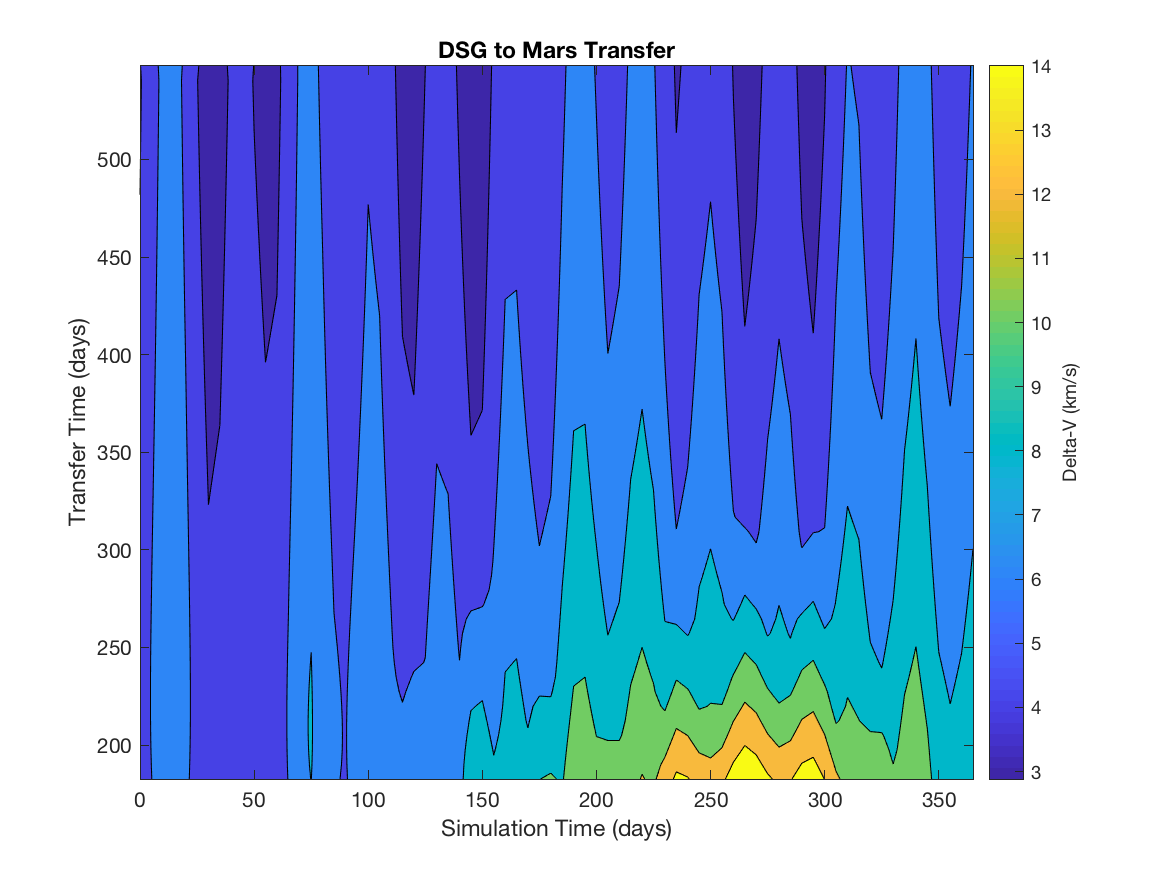
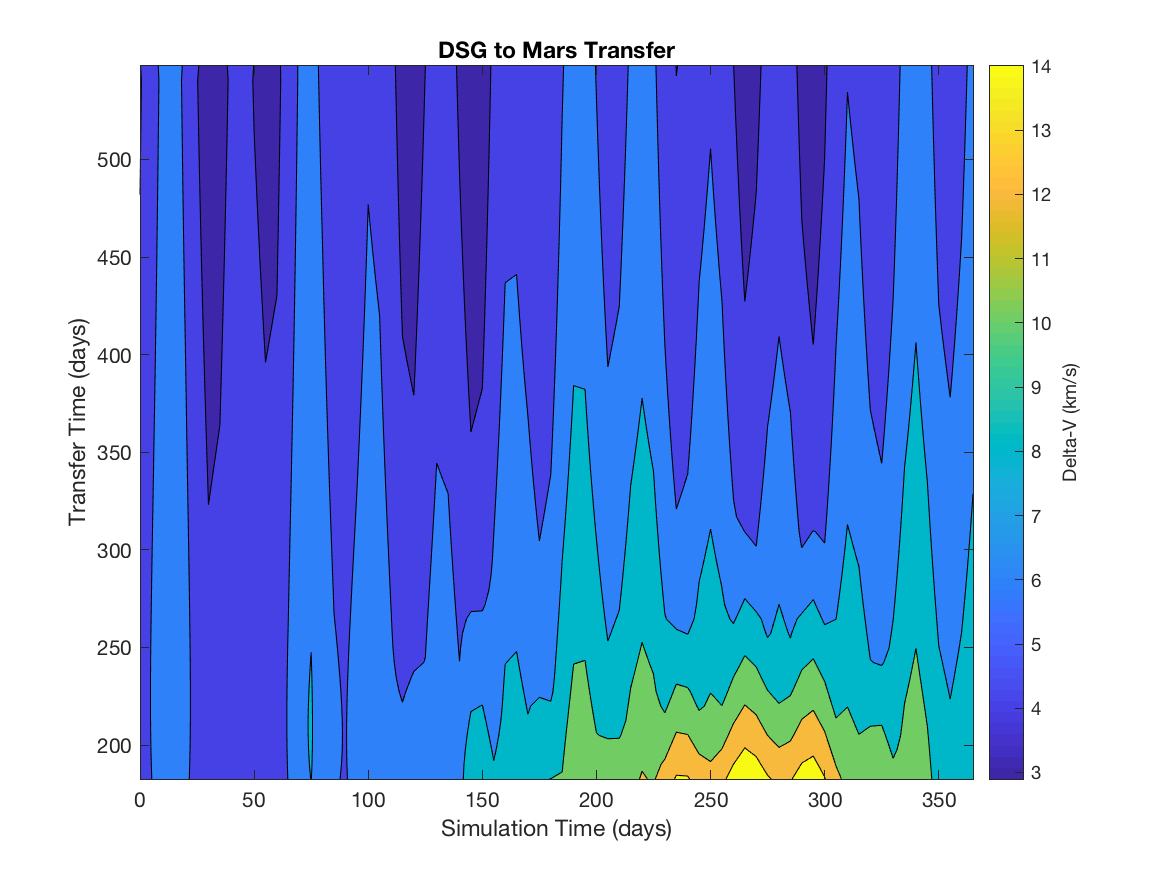
Added comments and more plots

diff --git a/sim_motion.m b/sim_motion.m
@@ -18,6 +18,7 @@ NM = 102.4e24;
 Sat_Mass = 0.5*419725; %kg, half mass of ISS
 PM = [Sat_Mass,SM,MerM,VM,EM,MM,MarM,JM,SatrM,UM,NM];
 
+%Constants
 EMR = 384399; %km
 ER = 6378; %km
 MR = 1738; %km
@@ -31,6 +32,7 @@ mu_s = G*SM;
 Re = 6378;
 sa_A = 625; %m2, area of solar array on DSG (1/4 ISS solar area area)
 
+% Delta-V Variable Initialization
 global maint grav_type dvTime ref_r ref_i dv_sum dvMag dvType dv_count last_burn avg_rs avg_is avg_es;
 global pdv_t pdv_m;
 maint = 1; %enable to maintain the equatorial circular orbit around the Moon
@@ -55,6 +57,7 @@ else
     mt = '';
 end
 
+%J2-J5 Coefficient Delcaration
 J2_E  = 0.10826360229840e-02;
 J3_E = -0.25324353457544e-05;
 J4_E = -0.16193312050719e-05;
@@ -67,7 +70,7 @@ J5_M = 2.2378531356778999e-07;
 J_M = [J2_M,J3_M,J4_M,J5_M];
 
 N = 1000;
-%te = 86400*20;
+%te = 86400*1;
 te = 86400*365.25;
 dt = 60;
 options = odeset('AbsTol',1e-9,'RelTol',1e-7);
@@ -90,6 +93,7 @@ FMx = matlabFunction(UMx);
 FMy = matlabFunction(UMy);
 FMz = matlabFunction(UMz);
 
+%Generate potential due to J2-J5 forces, not a spherical harmonic expansion
 syms mu Rs J2s J3s J4s J5s;
 p2 = legendre(2,0);
 p3 = legendre(3,0);
@@ -106,6 +110,7 @@ FEz = matlabFunction(UEz);
 fprintf('Gravity field generated\n');
 
 %% Inertial Frame
+%Define initial conditions
 %Assume starting time is 2026-06-01
 %J2000 reference frame
 %From JPL Horizons
@@ -139,6 +144,7 @@ Uranus_v0 = [-6.021071169932810E+00, 2.677844281306985E+00, 1.258042487010688E+0
 Neptune_x0 = [4.466094765331440E+09, 1.780455669690870E+08, -3.831483375880877E+07];
 Neptune_v0 = [-2.151376876037164E-01, 5.056825836277882E+00, 2.074789183973950E+00];
 
+%Define DSG initial condition
 r = ref_r;
 v = sqrt(mu_m/r);
 Sat_peri_r = [r,0,0]';
@@ -150,6 +156,7 @@ Sat_J2000 = Op_g*Sat_peri_r;
 Sat_J2000_v = Op_g*Sat_peri_v; 
 T = 2*pi*r^1.5/sqrt(mu_m);
 
+%% Simulate using ode45
 %Format: [Sat, Sun, Mercury, Venus, Earth, Moon, Mars, Jupiter, Saturn, Uranus, Neptune]
 
 Sat_x0 = Sat_J2000'+Moon_x0;
@@ -161,6 +168,7 @@ v0 = [Sat_v0';Sun_v0';Mercury_v0';Venus_v0';Earth_v0';Moon_v0';Mars_v0';...
 X0 = [x0;v0;];
 [T_J,E_J] = ode_helper(@grav_J,0,te,dt,X0,options);
 
+%Get results
 Sat_X = getv(E_J,'Sat','r');
 Sun_X = getv(E_J,'Sun','r');
 Mercury_X = getv(E_J,'Mercury','r');
@@ -184,6 +192,8 @@ Saturn_V = getv(E_J,'Saturn','v');
 Uranus_V = getv(E_J,'Uranus','v');
 Neptune_V = getv(E_J,'Neptune','v');
 
+%% Plotting
+%Plot locations of all bodies over the simulation
 figure;
 hold on; axis equal;
 plot3(Mercury_X(:,1)-Sun_X(:,1),Mercury_X(:,2)-Sun_X(:,2),Mercury_X(:,3)-Sun_X(:,3),...
@@ -210,6 +220,7 @@ legend('location','Northeast');
 fname = sprintf('Plots/%s_all_planets_%i.png',mt,round(te/86400));
 print(fname,'-dpng');
 
+%Plot Earth, Moon, DSG
 figure;
 hold on; axis equal;
 %plot3(Earth_X(:,1)-Sun_X(:,1),Earth_X(:,2)-Sun_X(:,2),Earth_X(:,3)-Sun_X(:,3),...
@@ -225,10 +236,11 @@ legend('location','Northeast');
 fname = sprintf('Plots/%s_earth_moon_dsg_%i.png',mt,round(te/86400));
 print(fname,'-dpng');
 
+%Plot Moon & DSG
 figure;
 hold on; axis equal;
 plot3(Sat_X(:,1)-Moon_X(:,1),Sat_X(:,2)-Moon_X(:,2),Sat_X(:,3)-Moon_X(:,3));
-[XS, YS, ZS] = sphere(30); % plot the Earth using Matlab sphere command
+[XS, YS, ZS] = sphere(30); % plot the Moon using Matlab sphere command
 hold on;
 h = surf(XS*MR, YS*MR, ZS*MR);
 rotate(h,[1,0,0],-mid);
@@ -242,6 +254,7 @@ view(3);
 fname = sprintf('Plots/%s_dsg_moon_3d_%i.png',mt,round(te/86400));
 print(fname,'-dpng');
 
+%Plot altitude, inclination, and eccentricity over time
 rs = zeros(1,length(Sat_X));
 is = zeros(1,length(Sat_X));
 es = zeros(1,length(Sat_X));
@@ -262,7 +275,7 @@ for k = 1:length(Sat_X)
     si = acos(dot(h,[0,0,1])/norm(h))*180/pi;
     hm = cross(Moon_X(k,:),Moon_V(k,:));
     mi = acos(dot(hm,[0,0,1])/norm(hm))*180/pi;
-    is(k) = si-mi;
+    is(k) = mi - si;
     
 %     j1 = [FMx(MR,mu_m,norm(r),r(1),r(2),r(3)),...
 %     FMy(MR,mu_m,norm(r),r(1),r(2),r(3)),...
@@ -298,6 +311,7 @@ ylabel('Velocity (km/s)');
 fname = sprintf('Plots/%s_r_e_i_v_%i.png',mt,round(te/86400));
 print(fname,'-dpng');
 
+%PLot delta-V over time
 figure;
 plot(pdv_t./86400,pdv_m.*1000);
 xlabel('Time (days)');
@@ -310,6 +324,7 @@ print(fname,'-dpng');
 %plot(j2s,'DisplayName','J gravity field');
 %legend('location','northeast');
 
+% Generate porkchop plots
 tofs = linspace(3*86400,10*86400,10);
 times = 1:(5*86400/60):length(T_J);
 [X,Y] = meshgrid(T_J(times),tofs);
@@ -376,6 +391,7 @@ for k = 1:size(X2,2)
     end
 end
 
+%Plot Earth to DSG Porkchop
 fprintf('Plotting\n');
 figure;
 contourf(X./86400,Y./86400,satdvs);
@@ -387,6 +403,7 @@ title('Earth to DSG Transfer');
 fname = sprintf('Plots/%s_earth_dsg_dv_%i.png',mt,round(te/86400));
 print(fname,'-dpng');
 
+%Plot Earth to Mars Porkchop
 figure;
 contourf(X2./86400,Y2./86400,emdvs);
 c = colorbar;c.Label.String = 'Delta-V (km/s)';
@@ -396,6 +413,7 @@ title('Earth to Mars Transfer');
 fname = sprintf('Plots/%s_earth_Mars_dv_%i.png',mt,round(te/86400));
 print(fname,'-dpng');
 
+%Plot DSG to Mars Porkchop
 figure;
 contourf(X2./86400,Y2./86400,mmdvs);
 c = colorbar;c.Label.String = 'Delta-V (km/s)';
@@ -405,6 +423,7 @@ title('DSG to Mars Transfer');
 fname = sprintf('Plots/%s_dsg_Mars_dv_%i.png',mt,round(te/86400));
 print(fname,'-dpng');
 
+%Plot net gain going DSG to Mars over Earth to Mars
 figure;
 contourf(X2./86400,Y2./86400,mmdvs-emdvs);
 c = colorbar;c.Label.String = 'Delta-V (km/s)';
@@ -413,20 +432,29 @@ ylabel('Transfer Time (days)');
 title('Delta-V Savings on Transfer from DSG to Mars vs. Earth to Mars');
 fname = sprintf('Plots/%s_diff_dvs_%i.png',mt,round(te/86400));
 print(fname,'-dpng');
+
+fprintf('Total required delta-V is %.3f m/s\n',dv_sum.*1000);
+
 %% Functions
 function [T,X] = ode_helper(handle,start_time,stop_time,dt,X0g,options)
+% Wrapper function to call ode45. Implements delta-Vs between calls
+
 global maint dvTime dvMag dvType dv_sum dv_count last_burn;
 global pdv_t pdv_m;
 T = [];
 X = [];
+
 if (maint)
     tend = stop_time;
     t_sim = 0;
     
-    per10 = (stop_time - start_time)/5;
+    per10 = (stop_time - start_time)/10;
     init_tspan = start_time:dt:per10;
     [tio,Xio] = ode45(handle,init_tspan,X0g,options);
     while (t_sim < tend)
+        %If no delta-Vs planned, simulate forward 10% of the total time
+        %span
+        %Then check if a delta-V is planned
         if (isempty(dvTime))
             if (isempty(T) || T(end) < tio(end))
                 T = [T;tio];
@@ -451,6 +479,9 @@ if (maint)
             tspan = linspace(t_sim,sim_end,n);
             X0 = X(end,:);
             [tio,Xio] = ode45(handle,tspan,X0,options);
+        %If delta-Vs are planned, simulate to the moment of the burn
+        %Execute the burn
+        %Repeat steps 1 and 2 until no more burns are planned
         else
             while (~isempty(dvTime))
                 %Sim up to burn
@@ -479,6 +510,8 @@ if (maint)
                 X = [X;Xio];
                 t_sim = tio(end);
                 
+                %Execute a altitude-raising burn (r), inclination lowering
+                %(i) or eccentricity lowering (e)
                 type = dvType(1);
                 if (type == 'r')
                     %Apply burn
@@ -517,14 +550,13 @@ if (maint)
                 dvMag(1) = [];
                 dvType(1) = [];
                 last_burn = t_sim;
-                dv_sum = dv_sum + dv_mag;
+                dv_sum = dv_sum + abs(dv_mag);
                 dv_count = dv_count +1;
-                
-                
             end
         end
     end
 else
+    %No delta-Vs in non-maintenance mode, so run the whole time in one go
     n = (stop_time-start_time)/dt+1;
     gtspan = linspace(start_time,stop_time,n);
     [T,X] = ode45(handle,gtspan,X0g,options);
@@ -532,8 +564,12 @@ end
 end
 
 function Xdot = grav_J(t,x)
+%This is the rate of change function called by ode45
+%Calculate the force due to gravity and perturbing forces
+%Check for a needed burn and plan one if in maintenance mode
+
 global PM mu_e FEx FEy FEz Re J_E J_M MR mu_m sa_A FMx FMy FMz;
-global maint grav_type dvTime dvMag ref_r ref_i last_burn avg_rs avg_is dvType avg_es;
+global maint grav_type dvTime dvMag ref_r last_burn avg_rs avg_is dvType avg_es;
 
 Xdot = zeros(66,1);
 x = x';
@@ -550,6 +586,7 @@ Saturn_X = getv(x,'Saturn','r');
 Uranus_X = getv(x,'Uranus','r');
 Neptune_X = getv(x,'Neptune','r');
 
+%% Force due to Gravity
 X = [Sat_X;Sun_X;Mercury_X;Venus_X;Earth_X;Moon_X;Mars_X;Jupiter_X;Saturn_X;...
     Uranus_X;Neptune_X;];
 M = PM;
@@ -591,6 +628,8 @@ Sat_grav_je = [FEx(J2_E,J3_E,J4_E,J5_E,Re,mu_e,norm(ESR),ESR(1),ESR(2),ESR(3)),.
     FEy(J2_E,J3_E,J4_E,J5_E,Re,mu_e,norm(ESR),ESR(1),ESR(2),ESR(3)), ...
     FEz(J2_E,J3_E,J4_E,J5_E,Re,mu_e,norm(ESR),ESR(1),ESR(2),ESR(3))]; %j perturbing forces from Earth
 MSR = Sat_X - Moon_X;
+%If f, use the spherical harmonic expansion for perturbing forces
+%Else, use the closed form just using J2-J5 defined above
 if grav_type == 'f'
     try
         Sat_grav_jm = [FMx(MR,mu_m,norm(MSR),MSR(1),MSR(2),MSR(3)),...
@@ -622,6 +661,7 @@ Xdot(58:60) = a(9,:); %saturn
 Xdot(61:63) = a(10,:); %uranus
 Xdot(64:66) = a(11,:); %neptune
 
+%If maintenance, check if the orbit needs to be corrected with a burn
 if (maint)
     r = Sat_X - Moon_X;
     v = getv(x,'Sat','v') - getv(x,'Moon','v');
@@ -646,6 +686,7 @@ if (maint)
     avg_es(1) = [];
     avg_es(10) = norm(e);
     rn = norm(r);
+    %Check altitude
     if (mean(avg_rs) < ref_r - 2 && isempty(dvTime) && t-last_burn > 300 ...
             && mean(avg_es) < 0.02) %need to boost the radius
         ra = ref_r+1;
@@ -662,6 +703,7 @@ if (maint)
         dvMag = [dv1,dv2];
         dvType = ['r','r'];
         fprintf('Burn 1 at %.3f and Burn 2 at %.3f\n',t./86400,(t+T)./86400);
+    %Check inclination
     elseif (mean(avg_is) > 0.5 && isempty(dvTime) && t-last_burn > 300 ...
             && dec < 0.01 && dec > -0.01) 
         dv = 2*norm(v)*sind(i/2);
@@ -679,6 +721,7 @@ if (maint)
         dvMag = [dv/2,-dv/2];
         dvType = ['i','i'];
         fprintf('Inc Burn at %.3f and %.3f\n',t./86400,(t+T)./86400);
+    %Check eccentricity
     elseif (mean(avg_es) > 0.02 && isempty(dvTime) && t-last_burn > 300 ...
             && thet > -5 && thet < 5)
         circ_v = sqrt(mu_m./rn);

diff --git a/getv.m b/getv.m
@@ -1,6 +1,8 @@
 function out = getv(x,plan,type)
 % get_r(x,num,type)
 % Given vector x and number in matrix, return vector
+% Knowing the format of the long vectors, given a name and type return
+% Just the component of the vector corresponding to that name
 
 switch plan
     case 'Sun'

diff --git a/gen_pot.m b/gen_pot.m
@@ -4,6 +4,7 @@ function U = gen_pot(C,S,p)
 %     p -> max degree of gravity field
 %     U -> symbolic expression for potential
 %          in terms of x y z Rs r mu
+%          Spherical Harmonic expansion for potential
 
 syms x y z Rs r mu;
 U = 0;

diff --git a/grav_CR3BP.m b/grav_CR3BP.m
@@ -1,4 +1,6 @@
 function Xdot = grav_CR3BP(~,X)
+%Acceleration due to gravity in CR3BP
+%For use with ode45
 global rho;
 
 x = X(1);

diff --git a/grav_2BP.m b/grav_2BP.m
@@ -1,4 +1,5 @@
 function Xdot = grav_2BP(~,x)
+%Acceleration due to gravity in 2BP
 global mu_m;
 mu = mu_m;
 
